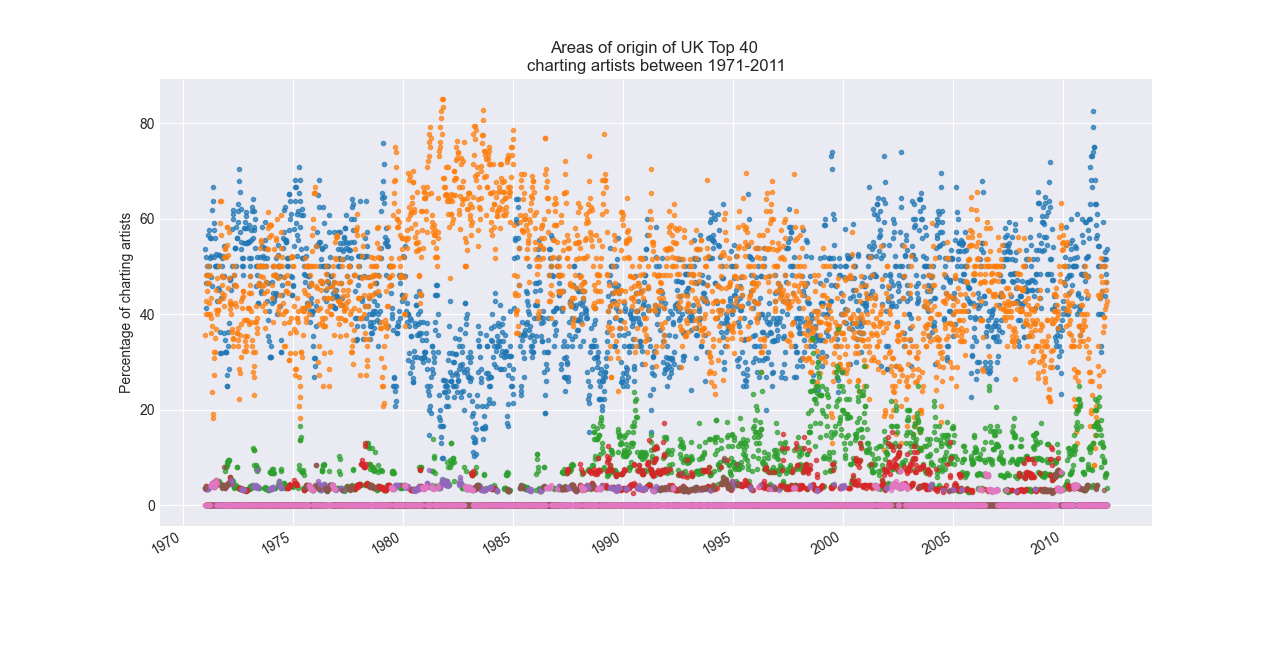
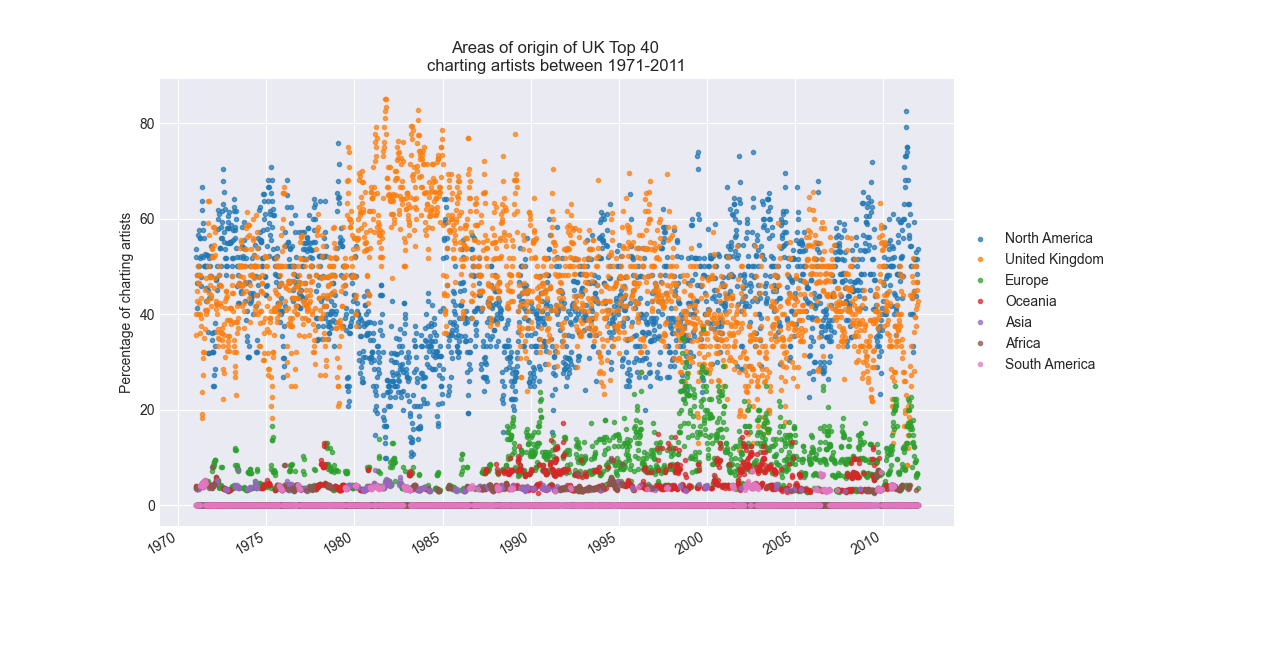
Add files via upload

diff --git a/visualisations/scatter graph of area of origin, per week.py b/visualisations/scatter graph of area of origin, per week.py
@@ -1,0 +1,25 @@
+# make a line graph, featuring each area,
+# showing percentage of charting artists from those areas
+
+import pandas as pd
+import matplotlib.pyplot as plt
+
+df = pd.read_csv('continents percentage by week.csv', index_col=0, parse_dates=True)
+areas = list(df)
+
+# Initialize the figure
+plt.style.use('seaborn-darkgrid')
+
+# create a color palette
+palette = plt.get_cmap('Dark2')
+
+# plotting time
+fig = df[areas].plot(marker=".", alpha=0.7, linestyle='None', legend=False)
+fig.set_ylabel("Percentage of charting artists")
+fig.set_title("Areas of origin of UK Top 40 \ncharting artists between 1971-2011")
+
+# adjust plot size by -20% to fit in legend
+box = fig.get_position()
+fig.set_position([box.x0, box.y0, box.width * 0.8, box.height])
+plt.legend(loc='center left', bbox_to_anchor=(1.0, 0.5))
+plt.show()
